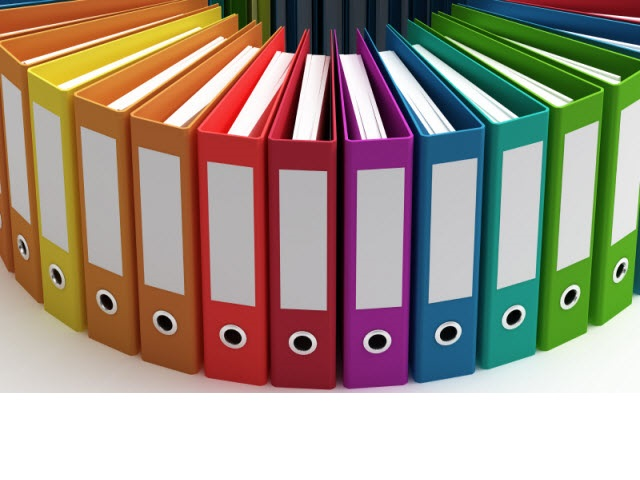
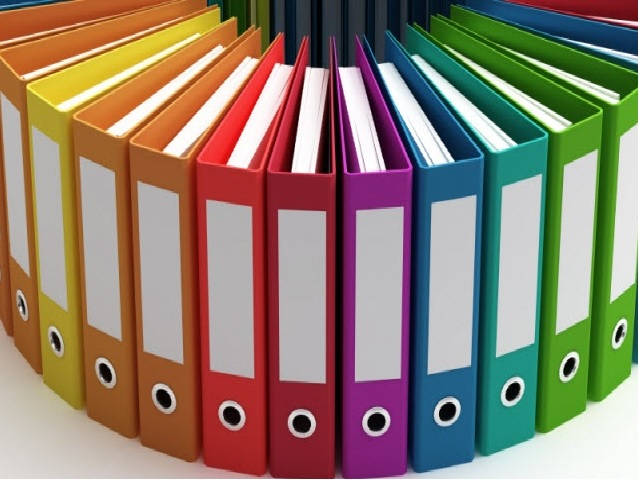
Calendar Save Fix

diff --git a/NextSteps/templates/NextSteps/NextSteps.html b/NextSteps/templates/NextSteps/NextSteps.html
@@ -262,7 +262,7 @@
                                     <li><a href="{% url 'preferred_Instt_ImpDates' %}">Important Dates</a></li>
                                     <li><a href="{% url 'preferred_Instt_adm_routes' %}">Admission Routes</a></li>
                                     <li><a href="{% url 'preferred_Instt_Entrance' %}">Entrance Exams</a></li>
-                                    <li><a href="{% url 'preferred_Instt_cons_report' %}">Consolidated Report</a></li>
+                                    <li><a href="{% url 'preferred_Instt_cons_report' %}">All-in-One Report</a></li>
                                     <li><a href="{% url 'calendar' %}">Calendar</a></li>
                                 </ul>
                                 <ul class="col-md-6">
@@ -358,7 +358,7 @@
             <div class="item-carousel" data-toggle="owlcarousel" data-owlcarousel-settings='{"items":4, "pagination":false, "navigation":true, "itemsScaleUp":true}'>
                 <div class="item">
                     <a href="#" class="overlay-wrapper">
-                    <img src="{% static 'img/showcase/research.png' %}" alt="Project 1 image" class="img-responsive underlay">
+                    <img src="{% static 'img/showcase/research.jpg' %}" alt="Project 1 image" class="img-responsive underlay">
                     <span class="overlay">
                         <span class="overlay-content"> <span class="h4">Get Institute Details</span> </span>
                     </span>
@@ -386,7 +386,7 @@
                 </div>
                 <div class="item">
                     <a href="#" class="overlay-wrapper">
-                        <img src="{% static 'img/showcase/calendar.png' %}" alt="Project 3 image" class="img-responsive underlay">
+                        <img src="{% static 'img/showcase/calendar.jpg' %}" alt="Project 3 image" class="img-responsive underlay">
                         <span class="overlay">
                         <span class="overlay-content"> <span class="h4">Calendar</span> </span>
                         </span>
@@ -400,7 +400,7 @@
                 </div>
                 <div class="item">
                     <a href="#" class="overlay-wrapper">
-                        <img src="{% static 'img/showcase/analyze.png' %}" alt="Project 4 image" class="img-responsive underlay">
+                        <img src="{% static 'img/showcase/analyze.jpg' %}" alt="Project 4 image" class="img-responsive underlay">
                         <span class="overlay">
                         <span class="overlay-content"> <span class="h4">Analyze</span> </span>
                         </span>
@@ -738,7 +738,7 @@ Usage: data-block-bg-img="IMAGE-URL" to apply a background image clearly via jQu
 
             setTimeout(function(){
               $('#promo').modal('hide')
-            }, 20000);            
+            }, 15000);            
 
             setTimeout(function(){
               $('#help').modal('hide')

diff --git a/NextSteps/templates/NextSteps/preferred_instt_adm_routes.html b/NextSteps/templates/NextSteps/preferred_instt_adm_routes.html
@@ -87,7 +87,11 @@
                                 <td class="align-middle"> 
                                 {% for a in admRoutesUserList %}
                                     {% if a.Institute__instt_code == il.Institute__instt_code%} 
-                                        {{a.adm_route}} &nbsp;-&nbsp;{{a.description}}
+                                        <i class="fa fa-check"></i>{{a.adm_route}} 
+                                        {% if a.description %}
+                                            &nbsp;-&nbsp;{{a.description}}
+                                        {% endif %}
+                                        <br />
                                     {% endif %}
                                 {% empty %}
                                     - NA -

diff --git a/NextSteps/templates/NextSteps/calendar_fullCal.html b/NextSteps/templates/NextSteps/calendar_fullCal.html
@@ -62,7 +62,7 @@
                             </div>
                             <div id="cbuttons" class="col-sm-3" >
                                 <!--Save Calendar:<br />-->
-                                <span class = "text-primary cal" data-toggle="tooltip" title="Save Calendar" data-placement="bottom">
+                                <span class = "text-primary cal" onclick="saveEvents()" data-toggle="tooltip" title="Save Calendar" data-placement="bottom">
                                         <i class="fa fa-save fa-2x"></i></span>
                                 <!-- <button class="btn-info" onclick="saveEvents()">Save</button> -->
                             </div>

diff --git a/NextSteps/views/pdf_views.py b/NextSteps/views/pdf_views.py
@@ -12,8 +12,9 @@ from reportlab.platypus import ListFlowable, ListItem
 from NextSteps.models import CountryUserPref, DisciplineUserPref, LevelUserPref, User
 from NextSteps.models import ProgramUserPref, InsttUserPref, InstituteProgramSeats
 from NextSteps.models import StudentCategory, StudentCategoryUserPref
-from NextSteps.models import InstituteProgramEntrance, InstituteSurveyRanking
+from NextSteps.models import InstituteEntranceExam, InstituteSurveyRanking
 from NextSteps.models import InstituteJEERanks, InstituteCutOffs, InstituteAdmRoutes
+
 
 PAGE_HEIGHT=defaultPageSize[1]
 PAGE_WIDTH=defaultPageSize[0]
@@ -169,9 +170,8 @@ def buildConsRep(response, request):
         Story.append(prg)
         Story.append(Spacer(1,0.2*inch))
 
-
         for ip in insttUserProgList:
-    
+
             
             if il["Institute__instt_code"] == ip["Institute__instt_code"] :
                 
@@ -187,22 +187,21 @@ def buildConsRep(response, request):
                 if progSeats.exists():
                     for ps in progSeats:
                         if ps.number_of_seats > 0:
-                            progDetailsTxt =  progDetailsTxt + " <font name=Courier-Bold size=10>" + str(ps.number_of_seats) + " (" + ps.quota + " quota) </font>"
+                            progDetailsTxt =  progDetailsTxt + " <font name=Courier size=10>" + str(ps.number_of_seats) + " (" + ps.quota + " quota) </font>"
                         else:
-                            progDetailsTxt =  progDetailsTxt + "<font name=Courier-Bold size=10> *n/a<font>"            
+                            progDetailsTxt =  progDetailsTxt + "<font name=Courier size=10> *N/A<font>"            
                 else:
-                    progDetailsTxt =  progDetailsTxt + "<font name=Courier-Bold size=10> *n/a</font>"            
+                    progDetailsTxt =  progDetailsTxt + "<font name=Courier size=10> *N/A</font>"            
                 
                 
                 # Get Eetrance Exam Details
-                entExam = InstituteProgramEntrance.objects.filter(
-                    Institute_id=il["Institute__instt_code"], 
-                    Program_id=ip["Program_id"]).values('EntranceExam__entrance_exam_code',
+                entExam = InstituteEntranceExam.objects.filter(
+                    Institute_id=il["Institute__instt_code"]).values('EntranceExam__entrance_exam_code',
                         'EntranceExam__description')
                 if entExam.exists():
-                    progDetailsTxt = progDetailsTxt + "<br /><font name=Courier-Bold size=10><b>Entrance Exam:</b></font> " 
+                    progDetailsTxt = progDetailsTxt + "<br /><font name=Courier-Bold size=10><b>Entrance Exam:</b></font><br /> " 
                     for ee in entExam:
-                        progDetailsTxt = progDetailsTxt + "  <font name=Courier-Bold size=10>" + ee["EntranceExam__description"] + ", </font>"
+                        progDetailsTxt = progDetailsTxt + ">>&nbsp;&nbsp;&nbsp;&nbsp;<font name=Courier size=10>" + ee["EntranceExam__description"] + "</font> <br />"
                     
                 year = "2017"
 
@@ -213,26 +212,27 @@ def buildConsRep(response, request):
                 year = "2017"
 
                 if insttJEERanks.exists():
-                    progDetailsTxt = progDetailsTxt + "<br /><font name=Courier-Bold size=10><b>" + year + " " + "JEE Opening and Closing Ranks:</b></font>" 
+                    progDetailsTxt = progDetailsTxt + "<br /><font name=Courier-Bold size=10><b>" + year + " " + "JEE Opening and Closing Ranks:</b></font><br />" 
                     for ir in insttJEERanks:
-                        progDetailsTxt = progDetailsTxt + "<br /> <font name=Courier-Bold size=10>" + ir.quota + " - Opening Rank: " + str(ir.opening_rank) + ", Closing Rank: " + str(ir.closing_rank) + "</font>"
+                        progDetailsTxt = progDetailsTxt + ">>&nbsp;&nbsp;&nbsp;&nbsp;<font name=Courier size=10>" + ir.quota + " - Opening Rank: " + str(ir.opening_rank) + ", Closing Rank: " + str(ir.closing_rank) + "</font> <br />"
                 
                 # Get the cut Offs
                 insttCutOffs = InstituteCutOffs.objects.filter(year=year, Institute_id=il["Institute__instt_code"],
                                 Program_id=ip["Program_id"], StudentCategory_id=stuCatId)
                 
                 if insttCutOffs.exists():
-                    progDetailsTxt = progDetailsTxt + "<br /><font name=Courier-Bold size=10><b>" + year + " " + "Cut Off:</b></font>" 
+                    progDetailsTxt = progDetailsTxt + "<br /><font name=Courier-Bold size=10><b>" + year + " " + "Cut Off:</b></font> <br />" 
                     for ic in insttCutOffs:
-                        progDetailsTxt = progDetailsTxt + "<br /> <font name=Courier-Bold size=10>" + ic.quota + " " + ic.cutOff + "</font>"
+                        progDetailsTxt = progDetailsTxt + ">>&nbsp;&nbsp;&nbsp;&nbsp;<font name=Courier size=10>" + ic.quota + " " + ic.cutOff + "</font> <br />"
 
                 # Get Admission Routes
-                insttAdmRoutes = InstituteAdmRoutes.objects.filter(Institute_id=il["Institute__instt_code"],
-                                Program_id=ip["Program_id"])
+                insttAdmRoutes = InstituteAdmRoutes.objects.filter(Institute_id=il["Institute__instt_code"])
+                
+
                 if insttAdmRoutes.exists():
-                    progDetailsTxt = progDetailsTxt + "<br /><font name=Courier-Bold size=10><b>" "Admission Routes:</b></font>" 
+                    progDetailsTxt = progDetailsTxt + "<br /><font name=Courier-Bold size=10><b>" "Admission Routes:</b></font> <br />" 
                     for ia in insttAdmRoutes:
-                        progDetailsTxt = progDetailsTxt + "<br /> <font name=Courier-Bold size=10>" + ia["adm_route"] + " - " + ia["description"] + "</font>"
+                        progDetailsTxt = progDetailsTxt + ">>&nbsp;&nbsp;&nbsp;&nbsp;<font name=Courier size=10>" + ia.adm_route + " - " + ia.description + "</font> <br />"
                 
                 prog = Paragraph( progDetailsTxt, style)
                 Story.append(prog)
@@ -247,7 +247,7 @@ def buildConsRep(response, request):
     l = HRFlowable(width="100%", thickness=1, lineCap='round', color=colors.grey, spaceBefore=1, spaceAfter=1, hAlign='LEFT', vAlign='BOTTOM', dash=None)
     Story.append(l)
 
-    disclaimerTxt = "<font name=Courier-Bold size=7>* Disclaimer: The information in this report is for your references only. While we do take all the care to ensure that information in our database is current and relevant, due to changes that can happen at any time we may not have the current information. Hence we do not claim that all the information is accurate.</font>" 
+    disclaimerTxt = "<font name=Courier size=7>* Disclaimer: The information in this report is for your references only. While we do take all the care to ensure that information in our database is current and relevant, due to changes that can happen at any time or we may not have the information available at the time you are printing report, we may not have the current information. Hence we do not claim that all the information is accurate. It is advised that students/parents may seek information directly from the institute for the latest.</font>" 
     disclaimer = Paragraph(disclaimerTxt, style)
     Story.append(disclaimer)   
 
